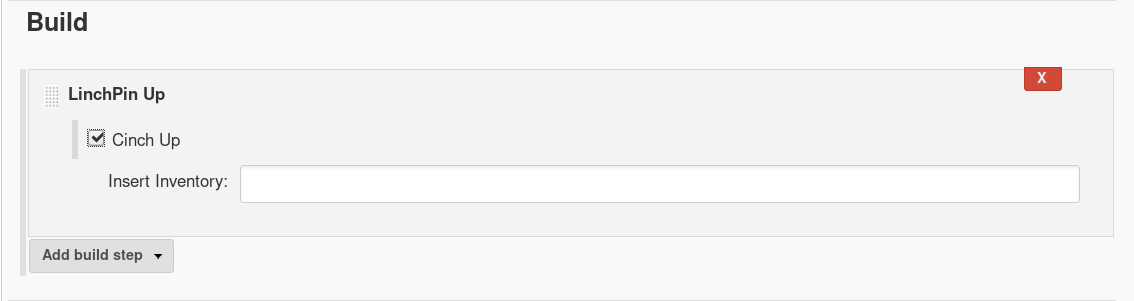
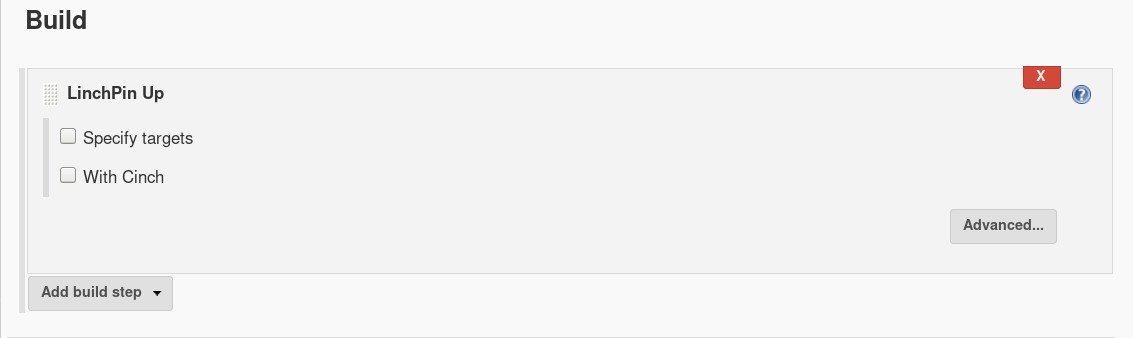
Update README.md

diff --git a/README.md b/README.md
@@ -19,16 +19,23 @@ Select **`"Use LinchPin"`** then find your LinchPin and copy&paste your PinFile.
 ![](src/main/resources/readme/linchPinBuildEnv.png)  
 
 ### Build  
-Select **`"Add build step"`** > **`"LinchPin Up"`**.   
-**Optional:** **`"Cinch Up"`**, **`"Insert Inventory"`** is mandatory if selected. 
-
+Select **`"Add build step"`** > **`"LinchPin Up"`**.  
+   
+**Optional:** 
+ - **`"Specify targets"`**, select specific target/s separated with comma(",") to provision. 
+ - **`"With Cinch"`**, **`"Inventory"`** is mandatory if selected.  
+ 
 ![](src/main/resources/readme/linchPinBuild.png)  
 
 ### Post-build Actions  
-**Very Important!** Select **`"Add post-build action"`** > **`"LinchPin Teardown"`** & **`"Teardown Cinch"`** with the proper inventory if **`"Cinch Up"`** was selected on **Build**.
+**Very Important!** Select **`"Add post-build action"`** > **`"LinchPin Teardown"`** & **`"Teardown Cinch"`** with the proper inventory if **`"With Cinch"`** was selected on **Build**.
    
-If not selected **LinchPin & Cinch** will continue to run! 
-
+If not selected **LinchPin & Cinch** will continue to run!  
+ 
+**Optional:** 
+ - **`"Specify targets"`**, select specific target/s separated with comma(",") to teardown. 
+ - **`"Teardown Cinch"`**, **`"Inventory"`** is mandatory if selected.  
+ 
 ![](src/main/resources/readme/linchPinPostBuild.png)
 
 
